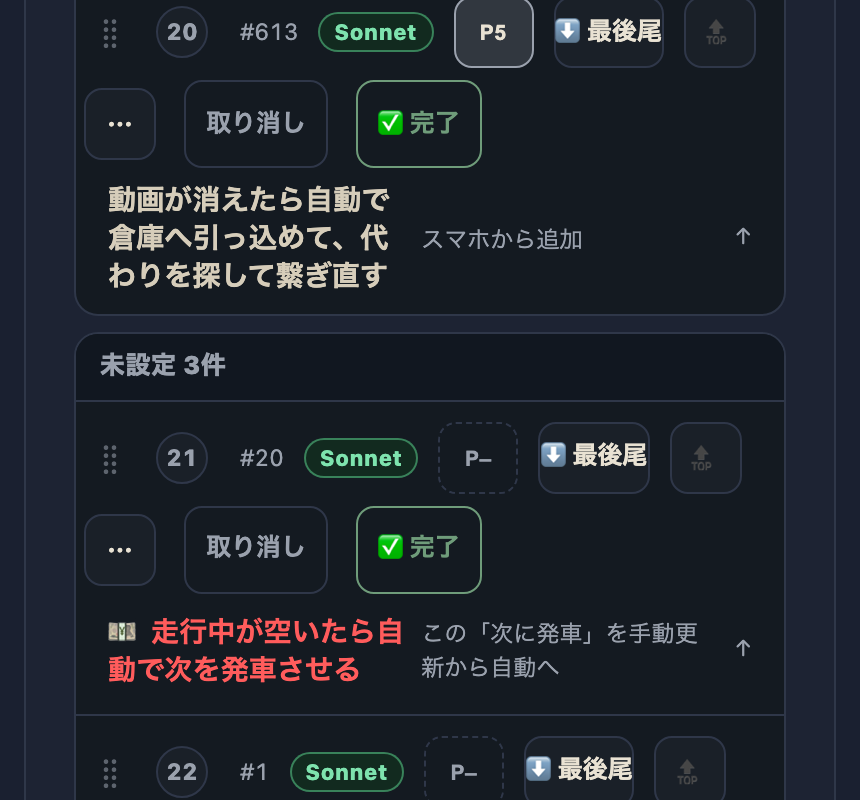
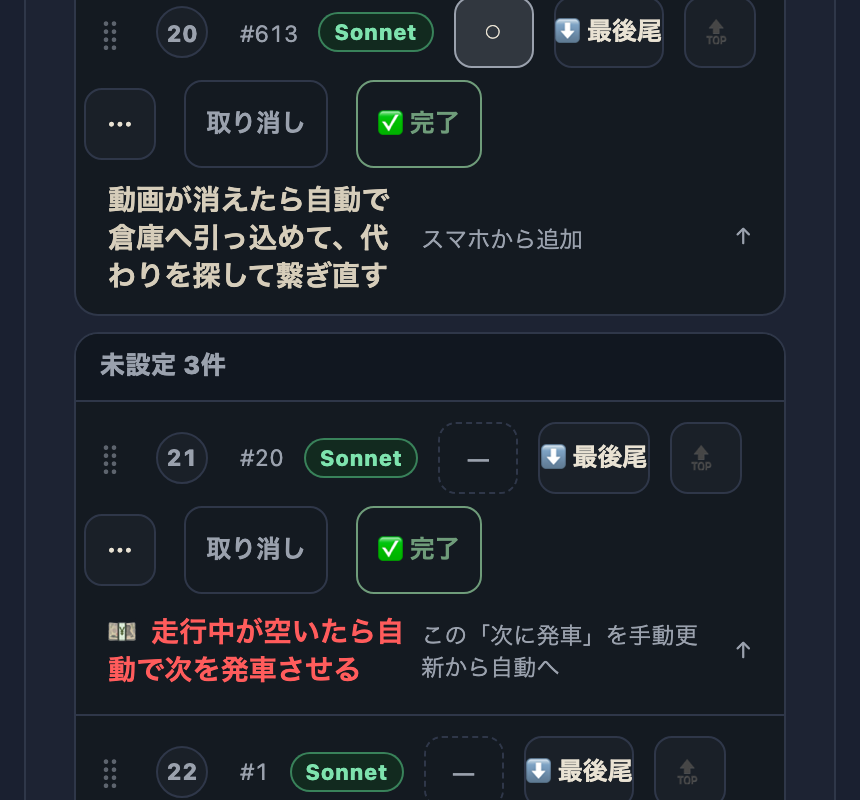
655番: 確認ページのスクショをP削除後の最終版に更新

diff --git a/share/check/655-queue-buttons.html b/share/check/655-queue-buttons.html
@@ -47,18 +47,18 @@
 <div class="date">2026-09-08 実装・main合流・本番(GitHub Pages)反映まで実測確認</div>
 
 <div class="fix">
-発車待ちの行に4つの改修：①お金がかかるタスクは題名が赤字＋💴表示 ②「✅完了」「取り消し」ボタンを追加（押した直後10秒だけ取り消せる） ③優先順位（P1〜P5）を数字ではなく色帯で表示し、順番ボタン（🔝⋯）と見分けやすくした ④優先度を一気に最後尾（P5）へ落とす「⬇最後尾」ボタンを追加
+発車待ちの行に4つの改修：①お金がかかるタスクは題名が赤字＋💴表示 ②「✅完了」「取り消し」ボタンを追加（押した直後10秒だけ取り消せる） ③優先順位を数字でも「P」の文字でもなく色付き丸（🔴🟠🟡🔵⚪）で表示し、順番ボタン（🔝⋯）と見分けやすくした（489番「Pって何の略？」への回答も兼ねて統合） ④優先度を一気に最後尾へ落とす「⬇最後尾」ボタンを追加
 </div>
 
 <h2>② 数字</h2>
 <div class="nums">
   <div class="num"><b>4件</b><span>直した項目数</span></div>
-  <div class="num"><b>0件</b><span>波及した既存機能の破壊(検品PASS)</span></div>
+  <div class="num"><b>1件</b><span>ついでに統合した関連依頼(489番)</span></div>
 </div>
 
 <h2>③ 実データでのスクリーンショット</h2>
 <div class="shots">
-  <div class="shot plain"><b>実際の発車待ち画面（P1色帯・完了/取り消し/⬇最後尾ボタン）</b><img src="img/655-queue-buttons.png" alt="実際の発車待ち画面（P1色帯・完了/取り消し/⬇最後尾ボタン）"></div>
+  <div class="shot plain"><b>実際の発車待ち画面（色丸の優先度・完了/取り消し/⬇最後尾ボタン）</b><img src="img/655-queue-buttons.png" alt="実際の発車待ち画面（色丸の優先度・完了/取り消し/⬇最後尾ボタン）"></div>
   <div class="shot plain"><b>お金がかかる項目を一時的に再現（題名が赤字＋💴になる）</b><img src="img/655-costs-money.png" alt="お金がかかる項目を一時的に再現（題名が赤字＋💴になる）"></div>
 </div>
 
